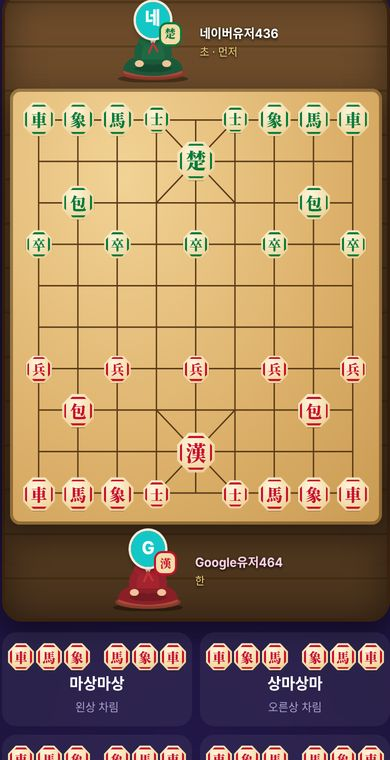
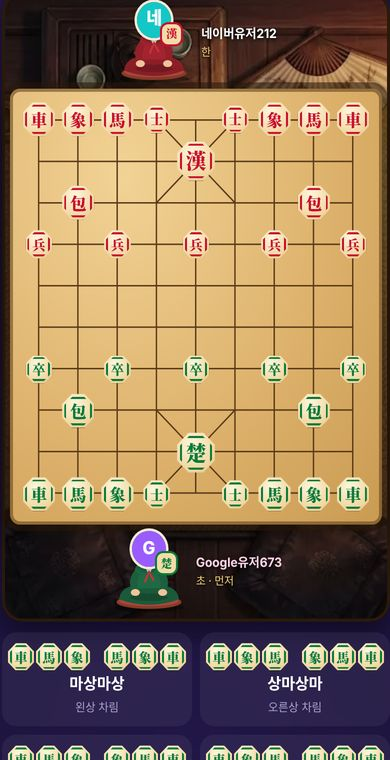
오목: 캐릭터 위아래 배치 / 장기: 내려다본 방 배경 그림
Claude-Session: https://claude.ai/code/session_018kcaK1YQGkv4UBC623yDa1

diff --git a/css/style.css b/css/style.css
@@ -3012,7 +3012,8 @@ html.rk-on .vdock .vbtn { height: 34px; font-size: 13px; padding: 0 10px; }
 .om-c { appearance: none; border: 0; padding: 0; margin: 0; background: none; position: relative; cursor: default; }
 .om-board.can .om-c:not(.st) { cursor: pointer; }
 .om-c::after { content: ''; position: absolute; inset: 6%; border-radius: 50%; }
-.om-c.st::after { box-shadow: 1px 2px 3px rgba(0, 0, 0, .5); animation: omDrop .18s ease-out; }
+.om-c.st::after { box-shadow: 1px 2px 3px rgba(0, 0, 0, .5); }
+.om-c.st.last::after { animation: omDrop .18s ease-out; }
 @keyframes omDrop { from { transform: scale(1.35); opacity: .3; } }
 .om-board.can .om-c:not(.st):hover::after { opacity: .45; }
 .om-c.pick::after { opacity: .6 !important; box-shadow: 0 0 0 2px #ff4f9a; }
@@ -3095,3 +3096,10 @@ html.rk-on .vdock .vbtn { height: 34px; font-size: 13px; padding: 0 10px; }
 .jg-form b { font-size: 15px; } .jg-form small { font-size: 11px; color: var(--muted); }
 .jg-frow { display: flex; align-items: center; gap: 2px; }
 .jg-frow .jg-p { width: 26px; } .jg-frow .jg-p b { font-size: 13px; } .jg-frow i { width: 10px; }
+/* 오목: 위아래 배치 (장기와 같은 틀) */
+.om2 .om-room.om-room2 { display: grid; grid-template-columns: 1fr; grid-template-areas: none; justify-items: center; gap: 6px; padding: 10px 8px; align-items: center; }
+.om2 .om-room2 .om-board { grid-area: auto; }
+@media (orientation: landscape) and (min-width: 700px) { .om2 .om-room.om-room2 { grid-template-columns: 1fr; grid-template-areas: none; } .om2 .om-room2 .om-board { width: min(100%, 560px, 66vh); } }
+/* 장기 배경 그림 (위에서 내려다본 방) */
+.jg .jg-room { background: #2a1a10 url(/img/janggi/bg.webp) center / cover no-repeat; box-shadow: inset 0 0 0 3px #2a1a0c, 0 10px 26px rgba(0, 0, 0, .45); }
+.jg .jg-board { box-shadow: inset 0 0 0 3px rgba(90, 58, 24, .55), 0 0 0 6px rgba(40, 24, 10, .55), 0 14px 30px rgba(0, 0, 0, .65); }

diff --git a/js/games/omok.js b/js/games/omok.js
@@ -135,7 +135,12 @@ export default {
     const seat = (u, c, side) => sitHtml(players[u], {
       uid: u, robe: c === 'b' ? '#2b2f3a' : '#e8e2d2', trim: c === 'b' ? '#e8e2d2' : '#3d4f7a', me: u === me, turn: !finished && u === turnUid,
       badge: `<i class="om-stone ${c}"></i>`, label: c === 'b' ? '흑 · 먼저' : '백',
-    }).replace('class="sit ', `class="sit om-sit ${side} `);
+      up: side === 'top',
+    }).replace('class="sit ', `class="sit jg-sit ${side === 'top' ? 'jg-top' : 'jg-bot'} `);
+    // 나는 항상 아래 (관전자는 흑이 아래)
+    const bottomU = myColor === 2 ? state.white : state.black;
+    const topU = bottomU === state.black ? state.white : state.black;
+    const colorOf = (u) => (u === state.black ? 'b' : 'w');
 
     let banner;
     if (finished || state.phase === 'done') {
@@ -148,13 +153,13 @@ export default {
     el.innerHTML = `
       <div class="om om2">
         <div class="nb-banner"><span>${banner} <small class="jg-n">${state.n}수</small></span></div>
-        <div class="om-room">
-          ${seat(state.black, 'b', 'l')}
+        <div class="om-room om-room2">
+          ${seat(topU, colorOf(topU), 'top')}
           <div class="om-board ${myTurn ? `can ${myColor === 1 ? 'mb' : 'mw'}` : ''}">
             <svg class="om-grid" viewBox="0 0 ${N} ${N}" preserveAspectRatio="none">${lines}${stars}</svg>
             <div class="om-cells">${cells}</div>
           </div>
-          ${seat(state.white, 'w', 'r')}
+          ${seat(bottomU, colorOf(bottomU), 'bot')}
         </div>
         ${myColor && !finished && state.phase === 'play' ? '<button class="btn ghost sm om-resign" data-resign>🏳 기권</button>' : ''}
         ${myColor ? chatFormHtml() : ''}

diff --git a/js/config.js b/js/config.js
@@ -1,6 +1,6 @@
 // 앱 이름
 export const APP_NAME = 'O게임';
-export const APP_VERSION = 'v10.42';
+export const APP_VERSION = 'v10.43';
 
 // Firebase 설정 — Firebase 콘솔 > 프로젝트 설정 > 내 앱 에서 복사한 값
 // apiKey를 비우면 "테스트 모드"로 동작합니다
